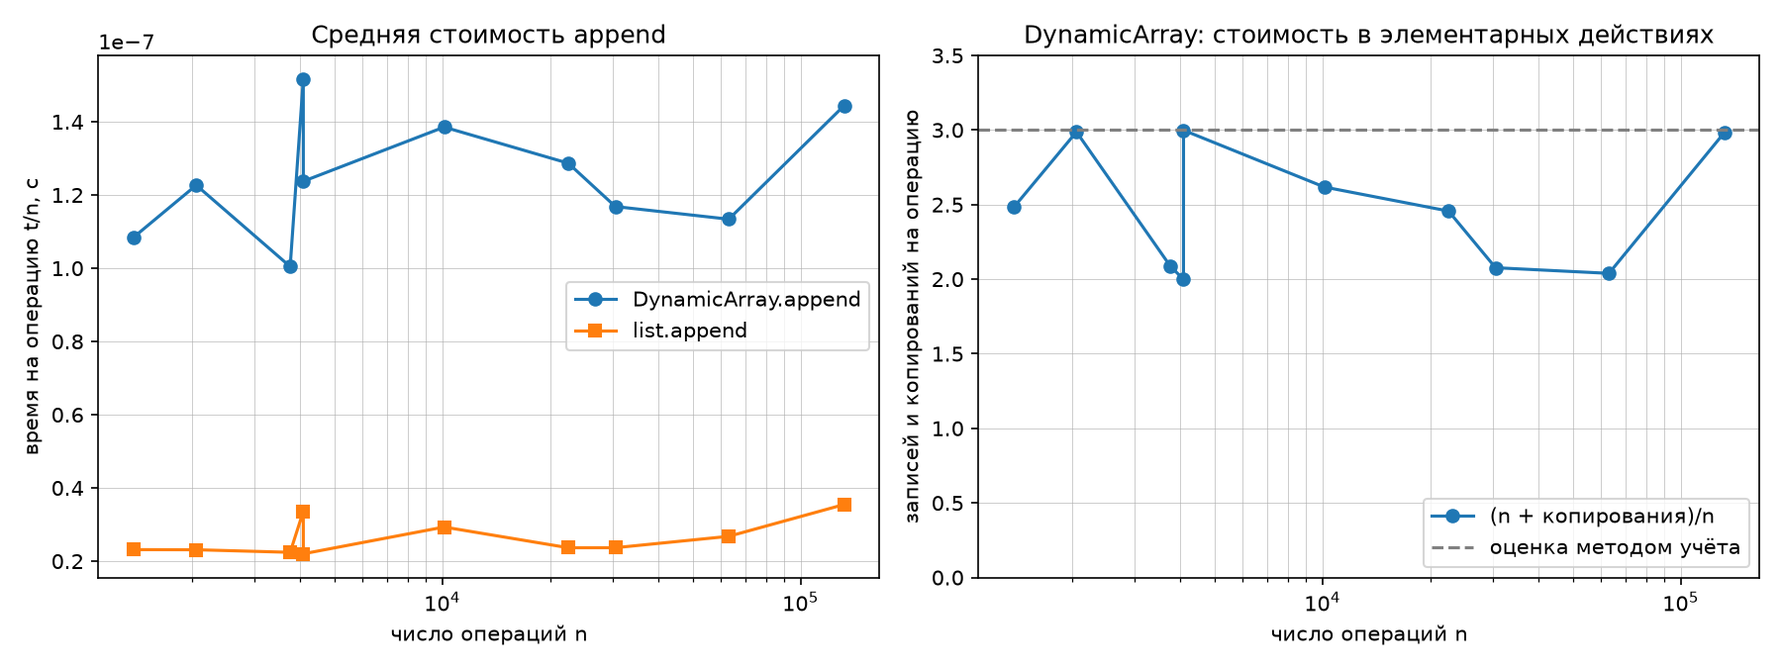
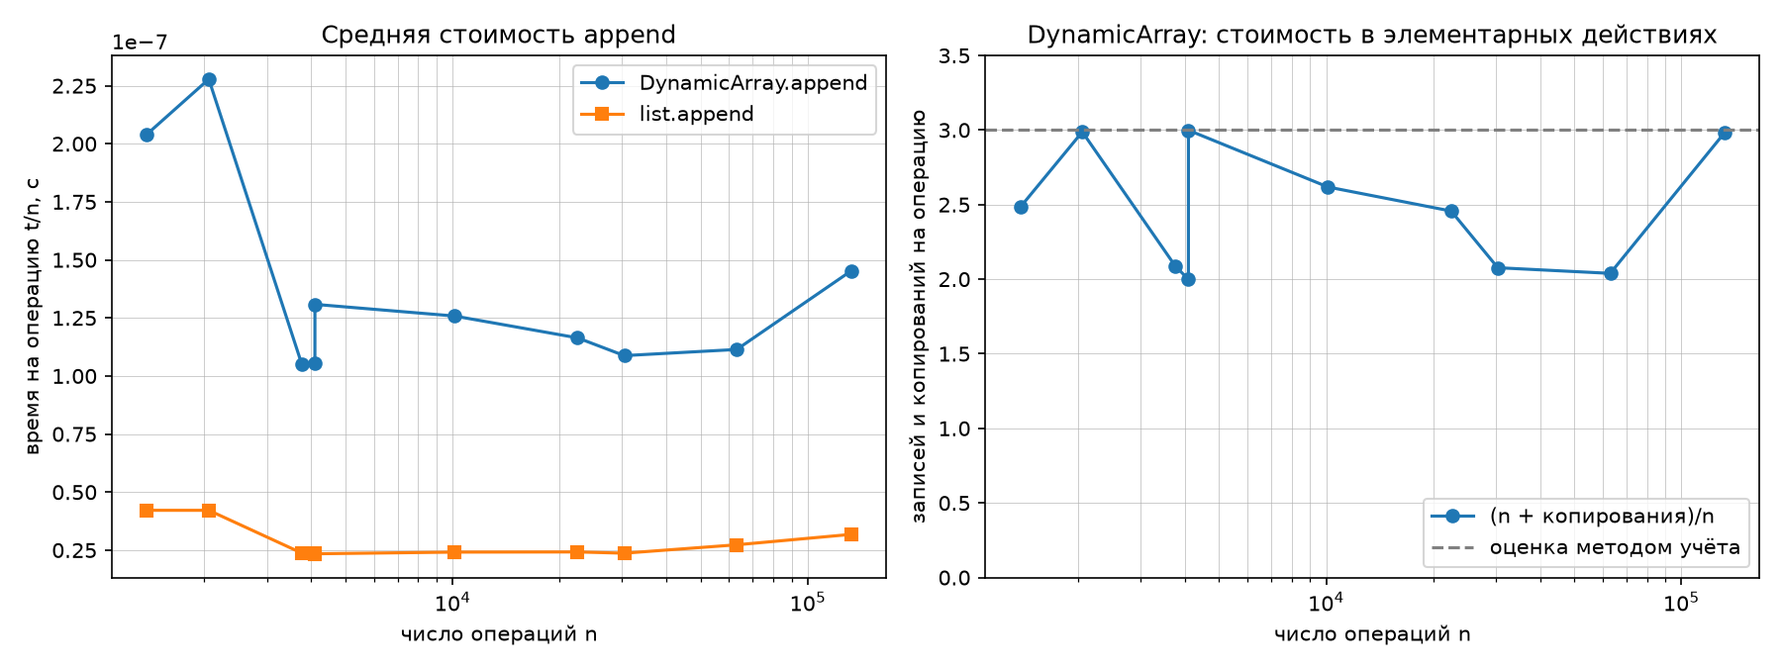
Добавлен отчет и вывод лабораторной 2

diff --git a/Lab02/REPORT.md b/Lab02/REPORT.md
@@ -1,0 +1,272 @@
+# Лабораторная работа № 2
+
+**Рекурсивные функции; динамический массив, стек и дек (КИМ-02)**
+
+Дисциплина: Структуры и алгоритмы обработки данных
+Вариант: **29** (seed = 30 + 29 = 59)
+
+---
+
+## 1. Условия эксперимента
+
+| Параметр | Значение |
+| --- | --- |
+| Язык | Python 3 (CPython) |
+| Данные | `data/generated`, вариант 29, seed 59 (сверено по `manifest.json`) |
+| Серии append | 1 378; 2 059; 3 765; 4 096; 4 097; 10 125; 22 491; 30 428; 63 071; 132 277 (`ops_append_sizes.txt`) |
+| Операции варианта | 100 000 операций стека (`ops_stack.txt`), 100 000 операций дека (`ops_deque.txt`) |
+| Операции у начала | размер структуры n = 1 000; 3 000; 10 000; 30 000; 100 000; 1 000 пар «добавить + удалить» на замер |
+| Методика замера | прогревочный запуск (не учитывается), 5 повторов, медиана |
+| Эталоны | `list`, `collections.deque`, `math.factorial`, явная таблица чисел Фибоначчи |
+
+Операции у начала замеряются парами «добавить в начало + удалить с другого конца»: размер структуры при этом остаётся равным n, и замер показывает стоимость операции **именно при этом размере**. Одна операция занимает десятки наносекунд — меньше разрешения таймера, — поэтому замеряется пакет из 1 000 пар с делением на их число.
+
+## 2. Теория и аналитический вывод сложности
+
+### 2.0. Рекурсия и её стоимость
+
+Рекурсивная функция вызывает саму себя на меньшем входе и останавливается на **базовом случае**. Каждый незавершённый вызов хранит свой кадр в стеке вызовов, поэтому, кроме времени, у рекурсии есть **память**: она равна максимальной глубине вложенности, а не общему числу вызовов. В CPython глубина ограничена (по умолчанию 1 000) — это практическое ограничение линейной по глубине рекурсии.
+
+Время рекурсивного алгоритма выводится из **рекуррентного соотношения**: время на входе n выражается через время на меньших входах.
+
+### 2.1. `factorial` — факториал
+
+```
+T(0) = c₀
+T(n) = T(n−1) + c   →   T(n) = c·n + c₀   →   Θ(n)
+```
+
+n + 1 вызовов, в каждом одно умножение и сравнение. Глубина рекурсии n + 1, поэтому память **Θ(n)** — в отличие от итеративного цикла с O(1).
+
+Оговорка: оценка Θ(n) верна в модели RAM, где умножение стоит O(1). В Python n! быстро становится длинным числом (20! уже не помещается в 64 бита), и стоимость умножения растёт с длиной числа; для больших n реальное время растёт быстрее линейного.
+
+*Инвариант:* `factorial(k)` возвращает k! для всех k < n — тогда n·(n−1)! = n!.
+
+### 2.2. `fib_naive` — наивная рекурсия Фибоначчи
+
+Число вызовов C(n) удовлетворяет соотношению:
+
+```
+C(0) = C(1) = 1
+C(n) = 1 + C(n−1) + C(n−2)
+```
+
+Прибавив 1 к обеим частям: C(n) + 1 = (C(n−1) + 1) + (C(n−2) + 1) — то есть C(n) + 1 подчиняется рекурсии Фибоначчи с начальными значениями 2, 2 = 2·F(1), 2·F(2). Отсюда **точная формула**:
+
+```
+C(n) = 2·F(n+1) − 1
+```
+
+F(n) растёт как φⁿ/√5, где φ = (1 + √5)/2 ≈ 1,618 — золотое сечение. Поэтому время **Θ(φⁿ) ≈ Θ(1,618ⁿ)**; часто пишут верхнюю оценку O(2ⁿ) — она верна, но не точна. Память — Θ(n): в любой момент активна только одна ветвь дерева вызовов глубиной n.
+
+Причина экспоненты — **перекрывающиеся подзадачи**: fib(n−2) вычисляется и внутри fib(n−1), и отдельно; fib(n−3) — уже трижды, и так далее.
+
+### 2.3. `fib_memo` — Фибоначчи с мемоизацией
+
+**Мемоизация** — сохранение результатов уже решённых подзадач в словаре; повторный вызов возвращает готовое значение за O(1). Каждое значение k = 2…n вычисляется ровно один раз и порождает два вызова (k−1 и k−2); все повторные вызовы попадают в словарь сразу. Итого:
+
+```
+C(n) = 1 + 2·(n − 1) = 2n − 1     (n ≥ 1)
+```
+
+Время **Θ(n)**, память **Θ(n)** (словарь на n значений и глубина рекурсии n). Важно, что словарь передаётся в рекурсивные вызовы: если бы каждый вызов создавал свой `memo`, мемоизация не работала бы — именно это ловит проверка `C(n) ≤ 2n + 1` в `self_check`.
+
+### 2.4. `hanoi` — Ханойские башни
+
+Чтобы перенести n дисков, нужно перенести n−1 верхних на вспомогательный стержень, перенести самый большой диск и вернуть n−1 дисков поверх него:
+
+```
+M(0) = 0
+M(n) = 2·M(n−1) + 1   →   M(n) = 2ⁿ − 1   →   Θ(2ⁿ)
+```
+
+(Проверка подстановкой: 2·(2ⁿ⁻¹ − 1) + 1 = 2ⁿ − 1.) Это число **оптимально**: самый большой диск должен сдвинуться хотя бы раз, а для этого все остальные n−1 дисков должны сначала уйти с него и потом вернуться — минимум 2·M(n−1) + 1 ходов. Глубина рекурсии n, память Θ(n) (без учёта списка ходов, который сам занимает Θ(2ⁿ)).
+
+### 2.5. `DynamicArray` — динамический массив с удвоением
+
+Массив хранит буфер фиксированной **ёмкости** (capacity) и текущий **размер** (size). Пока есть место, `append` — одна запись, O(1). Когда буфер заполнен, выделяется новый вдвое больше и все size элементов копируются — Θ(n) для этой операции.
+
+*Инвариант:* 0 ≤ size ≤ capacity; элементы буфера с индексами < size — данные, остальные — пустые ячейки.
+
+**Амортизированный анализ** оценивает не худшую одиночную операцию, а **среднюю стоимость в худшей последовательности операций**. Отдельный `append` может стоить Θ(n), но такие операции редки, и их стоимость «размазывается» по дешёвым.
+
+**Метод учёта (банковский метод).** Назначим каждому `append` цену **3 единицы**:
+- 1 единица оплачивает запись самого элемента;
+- 2 единицы откладываются «на счёт» этого элемента.
+
+Пусть ёмкость удваивается с c до 2c. С прошлого расширения (с c/2 до c) было добавлено c/2 элементов, и каждый отложил 2 единицы — на счету **c единиц**. Копирование стоит ровно c (переносятся c элементов). Счёт никогда не уходит в минус, значит, суммарная стоимость n операций **не больше 3n**, и амортизированная стоимость `append` — **O(1)**.
+
+**Точная стоимость.** При начальной ёмкости 4 копирования происходят при переходах 4 → 8 → 16 → … → C, где C — наименьшая степень двойки, не меньшая n. Перенесено 4 + 8 + … + C/2 = C − 4 элементов. Стоимость на операцию:
+
+```
+(n + копирования) / n = 1 + (C − 4) / n
+```
+
+Так как n ≤ C < 2n (C — ближайшая степень двойки сверху), величина лежит в интервале (2; 3), **строго меньше 3** — это и есть граница метода учёта.
+
+**Почему у соседних 2ᵏ и 2ᵏ + 1 стоимость различается почти на 1.** При n = 4 096 = 2¹² буфер заполнен **ровно**, расширения до 8 192 ещё не было: C = n, стоимость 1 + 4 092/4 096 ≈ **2,0**. При n = 4 097 один лишний элемент вызывает расширение и копирование 4 096 элементов: C = 2n − 2, стоимость ≈ **3,0**. Один `append` добавляет к общей стоимости ≈ n единиц, то есть ≈ 1 на каждую операцию. Это худший момент для «среднего» — сразу после расширения, пока на счёт ещё ничего не накоплено.
+
+Сжатие при `pop` не реализовано (оно необязательно); если реализовывать, сжимать вдвое нужно при size ≤ capacity/4, а не capacity/2: иначе чередование `append` и `pop` на границе вызывало бы расширение и сжатие на каждой операции — Θ(n) на операцию.
+
+### 2.6. `Stack` — стек на динамическом массиве
+
+Стек (LIFO, «последним пришёл — первым ушёл») использует только конец массива:
+
+| Операция | Реализация | Сложность |
+| --- | --- | --- |
+| `push` | `DynamicArray.append` | O(1) амортизированно (Θ(n) в момент расширения) |
+| `pop` | `DynamicArray.pop` | O(1) |
+| `peek` | `get(size − 1)` | O(1) |
+
+Конец массива выбран потому, что добавление и удаление там не требуют сдвига других элементов.
+
+### 2.7. `Deque` — дек на двусвязном списке
+
+Дек (двусторонняя очередь) поддерживает вставку и удаление с обоих концов. Каждый узел хранит значение и ссылки на соседей; дек хранит ссылки на первый (`head`) и последний (`tail`) узлы. Любая операция на конце меняет константное число ссылок, поэтому все четыре операции стоят **O(1) в худшем случае — без амортизации** (в отличие от `push` стека).
+
+*Инвариант:* head = None ⇔ tail = None ⇔ size = 0; у head нет предыдущего, у tail — следующего узла; прямой и обратный обход дают одни и те же элементы.
+
+Самое хрупкое место — переход к пустому деку и обратно: при удалении последнего узла нужно обнулить **и** head, **и** tail. Ошибка проявляется только на сочетаниях вида «push_front, pop_back, push_back, pop_front», поэтому `check_deque` перебирает все 16 таких сочетаний.
+
+Плата за O(1) — память: на каждый элемент отдельный объект-узел с двумя ссылками.
+
+### 2.8. Почему `list.insert(0, x)` и `list.pop(0)` — Θ(n)
+
+`list` в CPython — динамический массив указателей, расположенных подряд в памяти. Вставка в начало требует сдвинуть все n указателей на одну позицию вправо, удаление из начала — влево: **Θ(n)** на операцию. `collections.deque` устроен как двусвязный список **блоков** по 64 элемента: операции на концах меняют только крайний блок — **O(1)**.
+
+### 2.9. Сводка
+
+| Функция / операция | Время | Память |
+| --- | --- | --- |
+| `factorial(n)` | Θ(n) | Θ(n) — стек вызовов |
+| `fib_naive(n)` | Θ(φⁿ), вызовов 2F(n+1) − 1 | Θ(n) |
+| `fib_memo(n)` | Θ(n), вызовов 2n − 1 | Θ(n) |
+| `hanoi(n)` | Θ(2ⁿ), ходов 2ⁿ − 1 | Θ(n) |
+| `DynamicArray.append` | O(1) аморт., Θ(n) худший | — |
+| `Stack.push` / `pop` / `peek` | O(1) аморт. / O(1) / O(1) | — |
+| `Deque`, все 4 операции | O(1) худший | Θ(n) на узлы |
+| `list.insert(0, x)`, `list.pop(0)` | Θ(n) | — |
+
+## 3. Результаты замеров
+
+Полный вывод программы — `lab02_output.txt`, графики — `lab02_append.png` и `lab02_front.png`.
+
+### 3.1. Число вызовов: наивная рекурсия против мемоизации
+
+| n | F(n) | `fib_naive`, вызовов | 2·F(n+1) − 1 | `fib_memo`, вызовов | 2n − 1 |
+| --- | --- | --- | --- | --- | --- |
+| 5 | 5 | 15 | 15 | 9 | 9 |
+| 10 | 55 | 177 | 177 | 19 | 19 |
+| 15 | 610 | 1 973 | 1 973 | 29 | 29 |
+| 20 | 6 765 | 21 891 | 21 891 | 39 | 39 |
+| 25 | 75 025 | 242 785 | 242 785 | 49 | 49 |
+| 30 | 832 040 | 2 692 537 | 2 692 537 | 59 | 59 |
+
+Формулы совпадают с измерением **во всех строках точно**. При увеличении n на 5 число вызовов наивной версии растёт в ≈ 11 раз (φ⁵ ≈ 11,09), мемоизированной — на 10.
+
+### 3.2. Серии append (вариант 29)
+
+| n | C (ёмкость) | Копирований | (n + копирования)/n | t/n DynamicArray, с | t/n list, с |
+| --- | --- | --- | --- | --- | --- |
+| 1 378 | 2 048 | 2 044 | 2,483 | 2,04·10⁻⁷ | 4,22·10⁻⁸ |
+| 2 059 | 4 096 | 4 092 | 2,987 | 2,28·10⁻⁷ | 4,22·10⁻⁸ |
+| 3 765 | 4 096 | 4 092 | 2,087 | 1,05·10⁻⁷ | 2,37·10⁻⁸ |
+| 4 096 | 4 096 | 4 092 | **1,999** | 1,06·10⁻⁷ | 2,36·10⁻⁸ |
+| 4 097 | 8 192 | 8 188 | **2,999** | 1,31·10⁻⁷ | 2,34·10⁻⁸ |
+| 10 125 | 16 384 | 16 380 | 2,618 | 1,26·10⁻⁷ | 2,41·10⁻⁸ |
+| 22 491 | 32 768 | 32 764 | 2,457 | 1,16·10⁻⁷ | 2,42·10⁻⁸ |
+| 30 428 | 32 768 | 32 764 | 2,077 | 1,09·10⁻⁷ | 2,37·10⁻⁸ |
+| 63 071 | 65 536 | 65 532 | 2,039 | 1,11·10⁻⁷ | 2,73·10⁻⁸ |
+| 132 277 | 262 144 | 262 140 | 2,982 | 1,45·10⁻⁷ | 3,18·10⁻⁸ |
+
+Колонка «копирований» во всех строках равна C − 4, где C — степень двойки сверху, как и выведено в 2.5.
+
+### 3.3. Операции у начала, время одной операции (с)
+
+| Операция | n = 1 000 | 3 000 | 10 000 | 30 000 | 100 000 | Наклон |
+| --- | --- | --- | --- | --- | --- | --- |
+| `list.insert(0, x)` + `pop()` | 2,45·10⁻⁷ | 6,55·10⁻⁷ | 2,01·10⁻⁶ | 5,63·10⁻⁶ | 1,95·10⁻⁵ | **0,95** |
+| `deque.appendleft` + `pop` | 3,67·10⁻⁸ | 3,68·10⁻⁸ | 3,71·10⁻⁸ | 3,76·10⁻⁸ | 3,73·10⁻⁸ | 0,00 |
+| `Deque.push_front` + `pop_back` | 2,75·10⁻⁷ | 2,60·10⁻⁷ | 2,55·10⁻⁷ | 2,60·10⁻⁷ | 2,84·10⁻⁷ | 0,01 |
+| `list.append` + `pop(0)` | 9,60·10⁻⁸ | 1,99·10⁻⁷ | 1,20·10⁻⁶ | 3,58·10⁻⁶ | 1,20·10⁻⁵ | **1,09** |
+| `deque.append` + `popleft` | 3,21·10⁻⁸ | 3,13·10⁻⁸ | 3,24·10⁻⁸ | 3,31·10⁻⁸ | 3,34·10⁻⁸ | 0,01 |
+| `Deque.push_back` + `pop_front` | 2,61·10⁻⁷ | 2,53·10⁻⁷ | 2,52·10⁻⁷ | 4,18·10⁻⁷ | 2,56·10⁻⁷ | 0,04 |
+
+### 3.4. Операции варианта целиком (время на операцию)
+
+| Файл | Своя структура | Стандартная | Отношение |
+| --- | --- | --- | --- |
+| `ops_stack.txt` | `Stack`: 1,70·10⁻⁷ с | `list`: 4,97·10⁻⁸ с | ×3,4 |
+| `ops_deque.txt` | `Deque`: 1,92·10⁻⁷ с | `collections.deque`: 5,36·10⁻⁸ с | ×3,6 |
+
+## 4. Сопоставление теории и эксперимента
+
+### 4.1. Рекурсия: формулы числа вызовов подтверждены точно
+
+Таблица 3.1 совпадает с формулами 2·F(n+1) − 1 и 2n − 1 без единого расхождения. При n = 30 наивная рекурсия делает 2,7 млн вызовов против 59 у мемоизированной — разница в 45 000 раз, и она растёт экспоненциально. Мемоизация превращает дерево вызовов в цепочку: каждая подзадача решается один раз.
+
+### 4.2. Амортизированная стоимость append
+
+Измеренная величина (n + копирования)/n лежит в диапазоне **1,999 … 2,999** — всегда ниже границы 3 метода учёта (график `lab02_append.png`, правая панель). Пара 4 096 / 4 097 из данных варианта показывает скачок ровно на 1 (1,999 → 2,999), как и предсказано в 2.5: один лишний элемент запускает копирование 4 096 элементов.
+
+Время на операцию t/n при этом **не растёт с n**: 1,05–2,3·10⁻⁷ с для `DynamicArray` и 2,3–4,2·10⁻⁸ с для `list` на диапазоне в 100 раз — экспериментальное подтверждение амортизированного O(1). Колебания t/n частично повторяют колебания стоимости: самые дорогие точки по времени (2 059 и 132 277) — те, у которых стоимость близка к 3. Повышенное время на самых малых n дополнительно объясняется фиксированными накладными расходами на создание объекта и прогрев.
+
+### 4.3. Операции у начала: наклон ≈ 1 против ≈ 0
+
+В осях log-log наклон равен показателю степени (lg t = k·lg n + lg C).
+
+- `list.insert(0, x)` и `list.pop(0)` — наклоны **0,95** и **1,09**, то есть время растёт линейно с размером: сдвиг всех n указателей массива. При n = 100 000 одна такая операция стоит 12–20 мкс — в **300–500 раз** дороже операции на конце дека.
+- `collections.deque` и свой `Deque` — наклоны **0,00–0,04**: время одной операции не зависит от размера, O(1). Единичный выброс у `Deque.push_back + pop_front` при n = 30 000 (4,18·10⁻⁷ при соседних 2,5·10⁻⁷) — шум (сборщик мусора или фоновая активность ОС): точки по обе стороны лежат на одном уровне.
+
+График `lab02_front.png`: линии `list` идут вверх под углом 45°, линии деков горизонтальны.
+
+### 4.4. Откуда постоянный множитель ×3,4–3,6 при одинаковой асимптотике
+
+Асимптотика операций своих структур и стандартных одинакова — O(1), но время различается в 3–4 раза (а у операций у начала — в 7 раз: 2,6·10⁻⁷ против 3,7·10⁻⁸). Big-O не учитывает константы, а они здесь разные:
+
+- **Интерпретатор против C.** `list` и `collections.deque` реализованы на C: одна операция — несколько машинных инструкций. Своя структура — Python-код: каждый вызов метода, чтение атрибута (`self._size`, `self._buffer`), сравнение и присваивание исполняются интерпретатором байт-кода.
+- **Слои вызовов.** `Stack.push` вызывает `DynamicArray.append` — два Python-вызова на операцию вместо одного вызова C-функции.
+- **Выделение памяти.** Свой `Deque` создаёт отдельный объект `_Node` на **каждый** элемент (и сборщик мусора потом его освобождает), `collections.deque` выделяет память блоками по 64 элемента.
+- **Копирование.** `list` растёт через `realloc` и перемещает память одним блочным копированием, а `DynamicArray._grow` копирует элементы в Python-цикле.
+
+Все эти факторы меняют **константу**, но не порядок роста — поэтому наклоны своих и стандартных структур совпадают.
+
+## 5. Верификация
+
+### Шаг 1. Инварианты
+
+Проверены в `self_check()`:
+
+- `factorial(n) = n!` для n = 0…20 (против `math.factorial`);
+- `fib_naive` и `fib_memo` совпадают с таблицей Фибоначчи; число вызовов наивной версии не меньше F(20) (это действительно наивная рекурсия), мемоизированной — не больше 2n + 1 (`memo` передаётся в рекурсию);
+- Ханойские башни: ходов ровно 2ⁿ − 1; проигрывание ходов на модели стержней — больший диск ни разу не кладётся на меньший, в конце все диски на целевом стержне, имена стержней передаются правильно;
+- `DynamicArray`: 0 ≤ size ≤ capacity; после каждого из 100 append ёмкость равна ближайшей степени двойки (не меньше 4), счётчик копирований равен C − 4; сжатие допустимо только вдвое и при size ≤ capacity/4;
+- `Stack`: порядок LIFO через границы ёмкости 4, 8, 16, повторное использование после опустошения;
+- `Deque`: согласованность head/tail при опустошении — все 16 сочетаний операций на одном элементе.
+
+### Шаг 2. Репрезентативные тесты
+
+- **граничные:** пустые структуры (`pop`, `peek`, `get`, `set` → `IndexError`), индексы −1, size, capacity − 1, capacity; n = 0 для рекурсивных функций;
+- **вырожденные:** опустошение до нуля и повторное наполнение;
+- **типовые:** случайные серии из 3 000 (стек) и 5 000 (дек) операций с частыми опустошениями;
+- **данные варианта:** все 100 000 операций из `ops_stack.txt` и `ops_deque.txt`.
+
+### Шаг 3. Сравнение с эталоном
+
+Каждая операция случайных серий и файлов варианта выполнялась одновременно над своей структурой и эталоном (`list` для стека, `collections.deque` для дека) со сверкой результата **и размера** после каждой операции. Расхождений нет — `self_check: OK`.
+
+### Шаг 4. Оценка сложности
+
+Аналитические оценки раздела 2 подтверждены: точными формулами числа вызовов (4.1), стоимостью append < 3 и постоянным t/n (4.2), наклонами ≈ 1 для `list` у начала и ≈ 0 для деков (4.3).
+
+### Вывод о применимости
+
+**Принять.** Реализации корректны и соответствуют заявленной асимптотике; разница с встроенными структурами — постоянный множитель, объяснённый реализацией на интерпретируемом Python.
+
+## 6. Выводы
+
+1. Наивная рекурсия Фибоначчи экспоненциальна: ровно 2·F(n+1) − 1 вызовов, рост ≈ φⁿ. Мемоизация сводит её к 2n − 1 вызовам — Θ(n). При n = 30 разница в 45 000 раз.
+2. Ханойские башни требуют ровно 2ⁿ − 1 ходов, и меньше нельзя; факториал — n + 1 вызов. Память рекурсии равна её глубине: Θ(n) у всех рассмотренных функций.
+3. Динамический массив с удвоением даёт амортизированно O(1) на append: метод учёта с ценой 3 доказывает границу, измерения дают 2,0–3,0 элементарных действия на операцию. Скачок стоимости между 4 096 и 4 097 элементами (1,999 → 2,999) — момент расширения буфера.
+4. Дек на двусвязном списке выполняет все операции на концах за O(1) в худшем случае; `list.insert(0, x)` и `list.pop(0)` — Θ(n) из-за сдвига элементов (наклоны 0,95 и 1,09 против 0,00–0,04).
+5. При одинаковой асимптотике собственные структуры в 3,4–3,6 раза медленнее стандартных: интерпретация Python-кода, лишние слои вызовов и выделение узлов по одному меняют константу, но не порядок роста.
